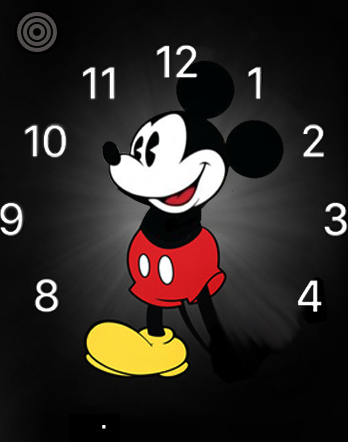
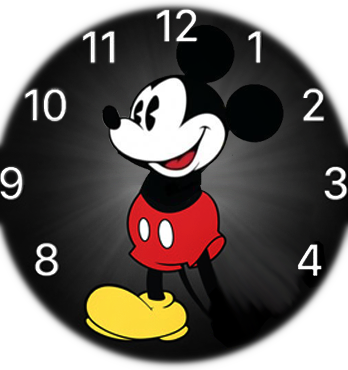
mickey: Change scale of background fix hour hand. Change the background to round, removes artifacts from initial port, zooms in a bit. Fix the hour hand because the int values were not properly added.

diff --git a/mickey/usr/share/asteroid-launcher/watchfaces/mickey.qml b/mickey/usr/share/asteroid-launcher/watchfaces/mickey.qml
@@ -26,10 +26,10 @@ Item {
         id: image
         //x: parent.width * 0.53
         //x: (parent.width - (background.sourceSize.width * getScale()))/2 + (getScale() * 0.53 * background.sourceSize.width);// v simplified -1 + 2*0.53 = 0.06
-        x: (parent.width + 0.06 * (background.sourceSize.width * getScale())) / 2
+        x: (parent.width + 0.04 * (background.sourceSize.width * getScale())) / 2
         //y: parent.height * 0.64
         //y: (parent.height - (background.sourceSize.height * getScale()))/2 + (getScale() * 0.64 * background.sourceSize.height) // -1 + 2*0.64
-        y: (parent.height + 0.28 * (background.sourceSize.height * getScale())) / 2
+        y: (parent.height + 0.30 * (background.sourceSize.height * getScale())) / 2
         width: getScale() * sourceSize.width
         height: getScale() * sourceSize.height
         source: "../watchfaces-img/food_"+currentImage+".png"
@@ -49,7 +49,7 @@ Item {
         height: getScale() * sourceSize.height
         source: "../watchfaces-img/hour_hand.png"
         transform: Rotation {
-            angle: (wallClock.time.toLocaleString(Qt.locale(), "hh ap").slice(0, 2) * 60 + wallClock.time.toLocaleString(Qt.locale(), "mm").slice(0, 2)) / 2
+            angle: (parseInt(wallClock.time.toLocaleString(Qt.locale(), "hh ap").slice(0, 2)) + parseFloat(wallClock.time.toLocaleString(Qt.locale(), "mm").slice(0, 2)*1 / 60)) * 30
             origin.x: imageHour.width / 2
             origin.y: imageHour.height
         }
